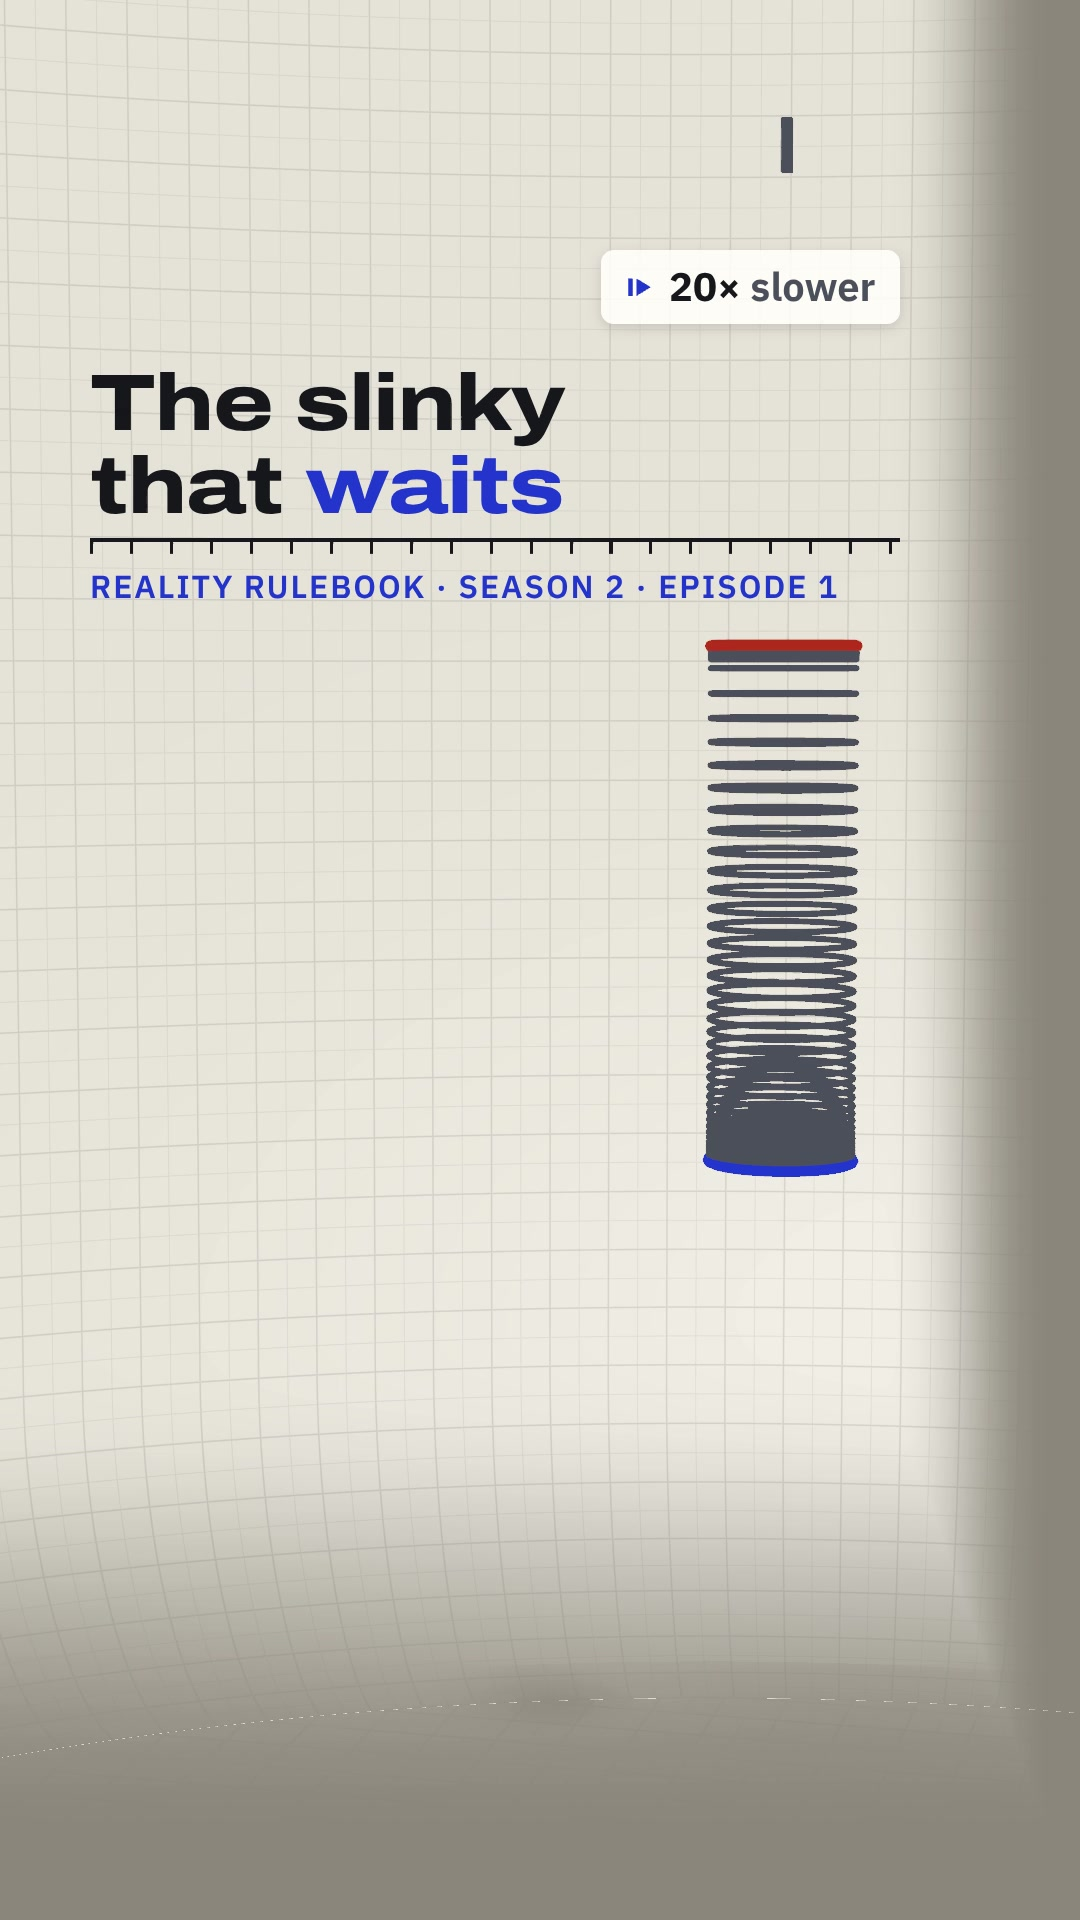
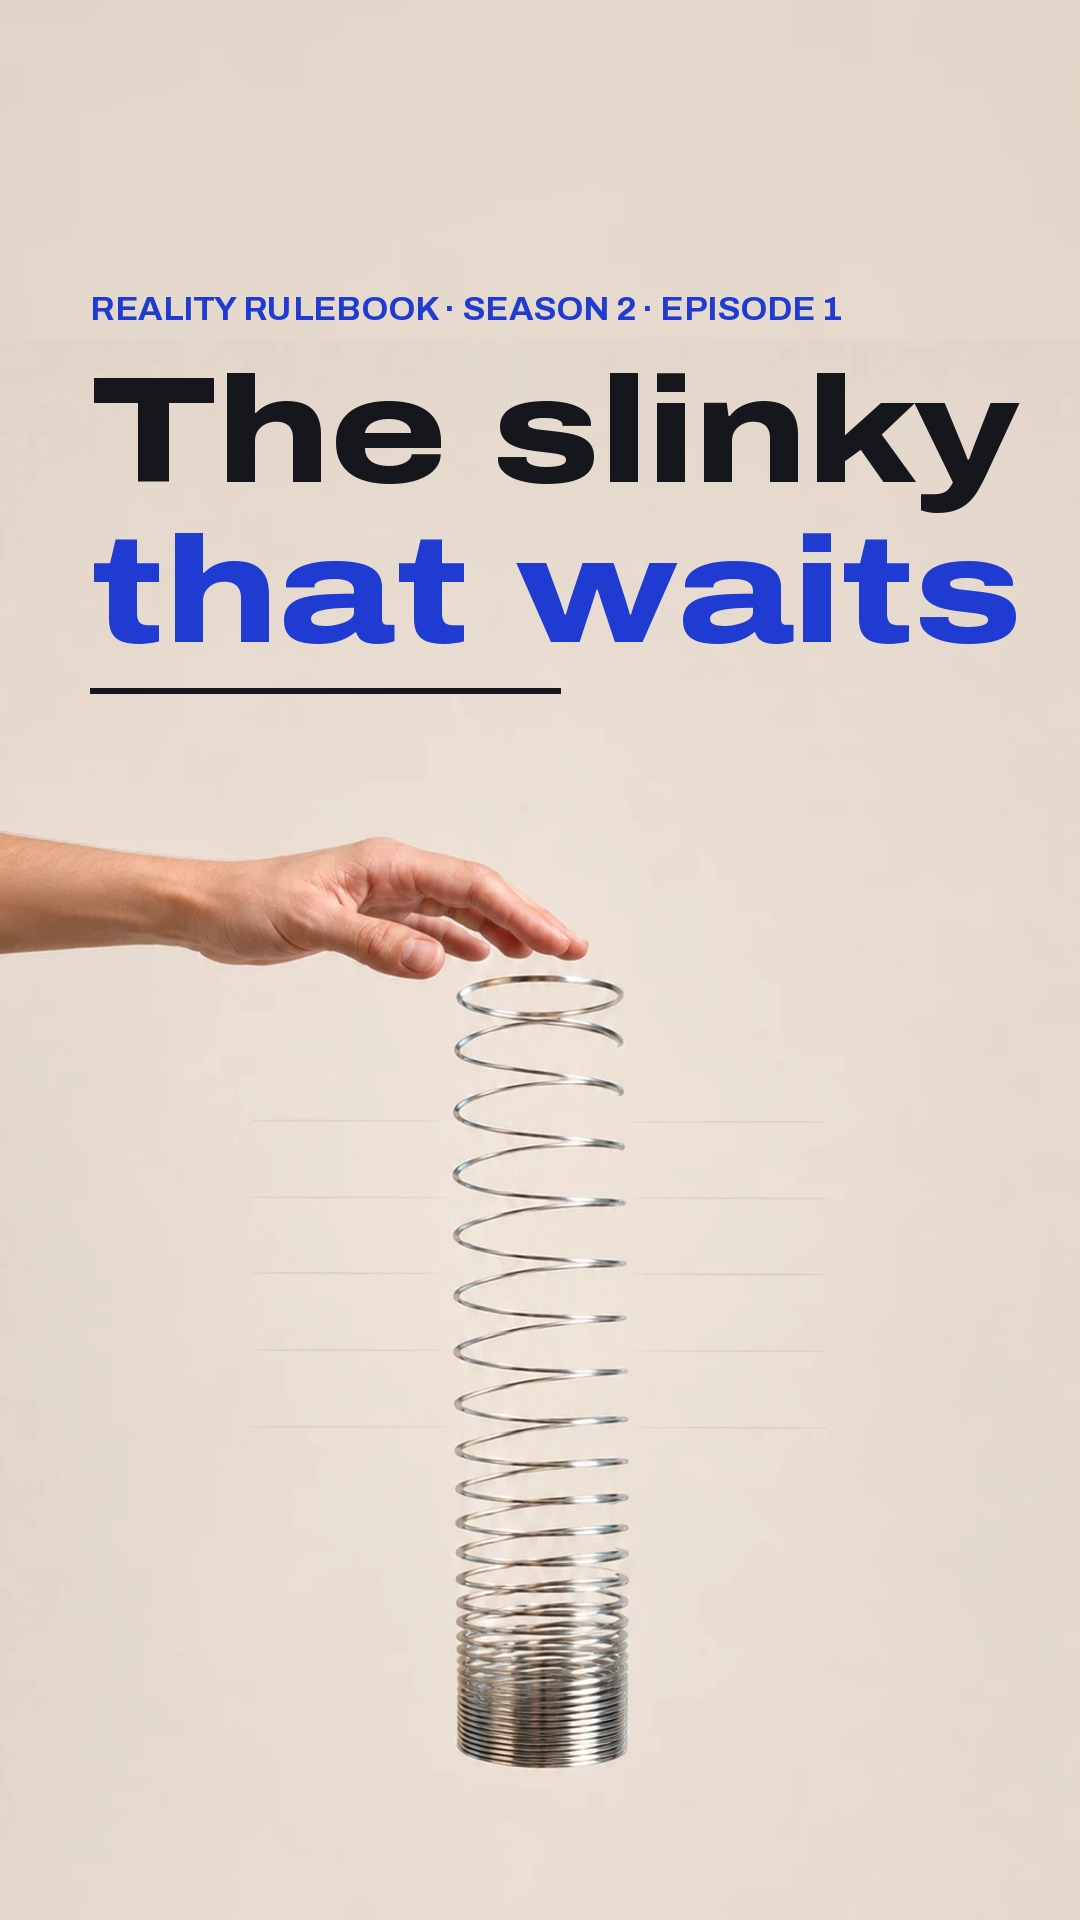
ep07 (S2E01): designed 9:16 cover (1080x1920) and 480 cover from the owner's slinky photo, title in code; all three covers newer than the mp4
Claude-Session: https://claude.ai/code/session_0192s8Y3nHgGCCsvNARxNLPn

diff --git a/films/channels/physics/ep07/out/POSTING.md b/films/channels/physics/ep07/out/POSTING.md
@@ -2,7 +2,7 @@
 
 Hand-written for this episode (the studio's posting-pack script was not run: prism-studio's packages are not installed in the builder's session). Turn on each platform's AI / synthetic content label. Captions are burned in: leave auto-captions off; the SRT is `reality-rulebook-s2e01.srt`. Post as a vertical video (Shorts / TikTok / Reel). **Do not post until a person has opened the sources: every claim is still OPEN.**
 
-**Cover / thumbnail**: `reality-rulebook-s2e01-cover.jpg` (9:16 cover: TikTok, Reels, Shorts) · `reality-rulebook-s2e01-thumb.jpg` (16:9 YouTube thumbnail: the owner's slinky photo with the title set in code)
+**Cover / thumbnail**: `reality-rulebook-s2e01-cover.jpg` (9:16, 1080x1920 cover: TikTok, Reels, Shorts; `-cover-480.jpg` is the small one) · `reality-rulebook-s2e01-thumb.jpg` (16:9 YouTube thumbnail: the owner's slinky photo with the title set in code)
 
 ## YouTube Shorts
 **Title**
